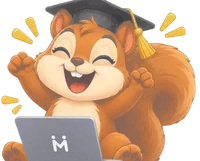
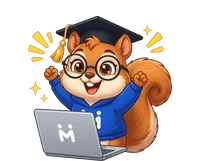
feat(ui): animaciones de Movi en Como funciona, ocultar precio en destacados y fix navbar

diff --git a/resources/js/Pages/Welcome.vue b/resources/js/Pages/Welcome.vue
@@ -259,7 +259,7 @@
     <section id="como-funciona" class="pt-10 pb-12 md:py-24 bg-gradient-to-b from-white via-white to-[#E5EEFB] md:bg-none md:bg-[#E5EEFB] reveal-group scroll-mt-16 sm:scroll-mt-20">
       <div class="max-w-7xl mx-auto px-4 sm:px-6 lg:px-8">
         <!-- Header Desktop (Hidden on mobile) -->
-        <div class="reveal-item hidden md:block text-center mb-16">
+        <div class="reveal-item hidden md:block text-center mb-36">
           <h2 class="text-4xl font-black text-brand-900 text-balance">¿Cómo funciona MOVA?</h2>
           <p class="text-slate-600 mt-3 max-w-xl mx-auto text-pretty">En tres pasos sencillos estás aprendiendo con tu profesor ideal</p>
         </div>
@@ -282,17 +282,16 @@
         <div class="hidden md:grid md:grid-cols-3 gap-8">
           <div v-for="(step, i) in steps" :key="i"
             class="reveal-item group relative bg-white rounded-2xl p-8 border border-gray-100 hover:border-brand-200 shadow-sm hover:shadow-xl hover:shadow-brand-900/5 transition-all duration-300 hover:-translate-y-2"
-            @mouseenter="step.title === 'Aprende en vivo' ? playSquirrel() : null"
-            @mouseleave="step.title === 'Aprende en vivo' ? stopSquirrel() : null">
+            @mouseenter="playSquirrel(i)"
+            @mouseleave="stopSquirrel(i)">
 
-            <!-- Animación de Ardilla Graduada -->
-            <div v-if="step.title === 'Aprende en vivo'"
-                 class="absolute bottom-full left-1/2 -translate-x-1/2 w-48 h-48 pointer-events-none z-10 overflow-hidden">
+            <!-- Animación de Ardilla Movi adaptada a cada paso -->
+            <div class="absolute bottom-full left-1/2 -translate-x-1/2 w-48 h-48 pointer-events-none z-10 overflow-hidden">
               <div class="w-full h-full transition-transform duration-500 ease-out flex items-end justify-center"
-                   :class="squirrelVisible ? 'translate-y-0' : 'translate-y-full'">
-                <!-- Movi celebra al pasar el cursor (secuencia animada WebP; con movimiento reducido se muestra la pose final). Se monta
-                     recién en el primer hover para no descargarla si nadie la ve. -->
-                <MoviMascot v-if="squirrelShown" pose="celebra" :animated="true" :size="176" />
+                   :class="squirrelVisible[i] ? 'translate-y-0' : 'translate-y-full'">
+                <!-- Movi aparece al pasar el cursor (secuencia animada WebP; con movimiento reducido se muestra la pose final). Se monta
+                     recién en el primer hover de cada tarjeta para no descargarla si nadie la ve. -->
+                <MoviMascot v-if="squirrelShown[i]" :pose="step.pose" :animated="true" :size="176" />
               </div>
             </div>
 
@@ -476,8 +475,7 @@
                     {{ s.name }}
                   </span>
                 </div>
-                <div class="flex items-center justify-between pt-4 border-t border-gray-50">
-                  <span class="font-black text-brand-700 text-lg">S/{{ parseFloat(t.hourly_rate).toFixed(0) }}<span class="text-sm font-normal text-slate-400">/h</span></span>
+                <div class="flex items-center justify-end pt-4 border-t border-gray-50">
                   <Link :href="route('teachers.show', t.id)"
                     class="px-4 py-2 bg-brand-600 text-white text-sm font-semibold rounded-lg hover:bg-brand-700 transition-colors group-hover:shadow-md group-hover:shadow-brand-600/20">
                     Ver perfil
@@ -601,21 +599,21 @@ const isChatOpen = ref(false)
 const showStats = computed(() => (props.stats?.completed ?? 0) >= 10 && (props.stats?.teachers ?? 0) >= 5)
 
 const steps = [
-  { icon: Search, title: 'Solicita tu clase', desc: 'Elige la materia y el nivel que necesitas. Nuestro sistema encuentra los mejores profesores disponibles para ti.' },
-  { icon: UserCheck, title: 'Un experto acepta', desc: 'Un profesor verificado revisará tu solicitud y propondrá un horario que se adapte a tu disponibilidad.' },
-  { icon: Video, title: 'Aprende en vivo', desc: 'Conéctate por videollamada y aprende de manera personalizada, con ejercicios y seguimiento en tiempo real.' },
+  { icon: Search, pose: 'solicita', title: 'Solicita tu clase', desc: 'Elige la materia y el nivel que necesitas. Nuestro sistema encuentra los mejores profesores disponibles para ti.' },
+  { icon: UserCheck, pose: 'experto', title: 'Un experto acepta', desc: 'Un profesor verificado revisará tu solicitud y propondrá un horario que se adapte a tu disponibilidad.' },
+  { icon: Video, pose: 'celebra', title: 'Aprende en vivo', desc: 'Conéctate por videollamada y aprende de manera personalizada, con ejercicios y seguimiento en tiempo real.' },
 ]
 
-const squirrelShown = ref(false)
-const squirrelVisible = ref(false)
+const squirrelShown = ref([false, false, false])
+const squirrelVisible = ref([false, false, false])
 
-function playSquirrel() {
-  squirrelShown.value = true
-  squirrelVisible.value = true
+function playSquirrel(index) {
+  squirrelShown.value[index] = true
+  squirrelVisible.value[index] = true
 }
 
-function stopSquirrel() {
-  squirrelVisible.value = false
+function stopSquirrel(index) {
+  squirrelVisible.value[index] = false
 }
 
 function levelColor(level) {

diff --git a/resources/js/Components/MoviMascot.vue b/resources/js/Components/MoviMascot.vue
@@ -7,14 +7,16 @@ import { computed } from 'vue'
  * - `lee`      → leyendo su libro (estado de espera / ayuda).
  * - `saluda`   → saludando con la burbuja (bienvenida, chat).
  * - `feliz`    → graduada contenta (éxito, estado vacío positivo).
- * - `celebra`  → graduada celebrando con la laptop (logros, hitos). Con `animated` reproduce la secuencia; con
+ * - `solicita` → buscando clase con lupa y lista de materias (paso 1 "Solicita tu clase"). Soporta `animated`.
+ * - `experto`  → profesor experto verificado con calendario confirmado (paso 2 "Un experto acepta"). Soporta `animated`.
+ * - `celebra`  → graduada celebrando con la laptop (logros, hitos, paso 3 "Aprende en vivo"). Con `animated` reproduce la secuencia; con
  *                prefers-reduced-motion reducido o sin `animated` muestra la pose final estática.
  *
  * Es decorativa por defecto (alt vacío): el texto cercano ya dice lo importante. Pasa `alt` solo si la imagen
  * aporta información que no está en el texto.
  */
 const props = defineProps({
-  pose: { type: String, default: 'saluda', validator: (v) => ['lee', 'saluda', 'feliz', 'celebra'].includes(v) },
+  pose: { type: String, default: 'saluda', validator: (v) => ['lee', 'saluda', 'feliz', 'solicita', 'experto', 'celebra'].includes(v) },
   size: { type: Number, default: 96 },
   animated: { type: Boolean, default: false },
   alt: { type: String, default: '' },
@@ -24,12 +26,14 @@ const ASSETS = {
   lee: { small: 'movi-lee-192', large: 'movi-lee-512', w: 512, h: 489 },
   saluda: { small: 'movi-saluda-192', large: 'movi-saluda-512', w: 512, h: 489 },
   feliz: { small: 'movi-feliz-420', large: 'movi-feliz-420', w: 420, h: 338 },
-  celebra: { small: 'movi-celebra-200', large: 'movi-celebra-420', w: 420, h: 338 },
+  solicita: { small: 'movi-solicita-200', large: 'movi-solicita-420', anim: 'movi-solicita-anim', w: 420, h: 338 },
+  experto: { small: 'movi-experto-200', large: 'movi-experto-420', anim: 'movi-experto-anim', w: 420, h: 338 },
+  celebra: { small: 'movi-celebra-200', large: 'movi-celebra-420', anim: 'movi-celebra-anim', w: 420, h: 338 },
 }
 
 const asset = computed(() => ASSETS[props.pose])
 const staticSrc = computed(() => `/images/mascot/${props.size > 200 || props.pose === 'feliz' ? asset.value.large : asset.value.small}.webp`)
-const animSrc = computed(() => (props.pose === 'celebra' && props.animated ? '/images/mascot/movi-celebra-anim.webp' : null))
+const animSrc = computed(() => (props.animated && asset.value?.anim ? `/images/mascot/${asset.value.anim}.webp` : null))
 const height = computed(() => Math.round((props.size * asset.value.h) / asset.value.w))
 </script>
 

diff --git a/resources/js/Components/LandingNavbar.vue b/resources/js/Components/LandingNavbar.vue
@@ -1,6 +1,6 @@
 <template>
-  <nav :class="['fixed top-0 inset-x-0 z-50 transition-all duration-300',
-    isSolid ? 'bg-white/95 backdrop-blur-md shadow-sm border-b border-gray-100' : 'bg-transparent']">
+  <nav :class="['fixed top-0 inset-x-0 z-50 border-b transition-[background-color,border-color,box-shadow] duration-300',
+    isSolid ? 'bg-white/95 backdrop-blur-md shadow-sm border-gray-100' : 'bg-transparent border-transparent shadow-none']">
     <div class="max-w-7xl mx-auto px-4 sm:px-6 lg:px-8">
       <div class="relative flex items-center justify-between h-16">
         <!-- Logo -->

diff --git a/docs/CHANGELOG_2026-10-21_UI_MOVI_DOCKER.md b/docs/CHANGELOG_2026-10-21_UI_MOVI_DOCKER.md
@@ -1,0 +1,100 @@
+> Estado: CURRENT · 2026-10-21
+
+# Registro de Cambios UI / Mascota Movi y Despliegue Local Docker (2026-10-21)
+
+**Fecha y hora:** 2026-10-21 (01:17 – 02:27 UTC-5)  
+**Rama base:** `master`  
+**Propósito de este documento:** Proveer contexto exacto, trazable y verificable para cualquier agente de IA o desarrollador que continúe el trabajo sobre este workspace.
+
+---
+
+## 1. Entorno Local Docker Configurado
+
+Se clonó el repositorio oficial `https://github.com/Abel-Castill0/MOVA.git` sobre la rama `master` y se levantó utilizando el `Dockerfile` multi-stage de producción (FrankenPHP + PHP 8.3 + Caddy + assets compilados con Vite):
+
+- **Red Docker:** `mova-net`
+- **Base de datos (`mova-mysql`):** Imagen `mysql:8.4`, puerto host `3307 -> 3306`, base de datos `mova`, migraciones completas ejecutadas (`php artisan migrate --force`) y datos iniciales sembrados (`DatabaseSeeder`: `RoleSeeder`, `SubjectSeeder`, profesores y padres de prueba).
+- **Aplicación Web (`mova-web`):** Imagen `mova:latest` construida desde `Dockerfile`, expuesta en `http://localhost:8080`.
+  - Endpoints de salud verificados: `/healthz` (`200 OK`) y `/readyz` (`200 {"status":"ready","checks":{"database":"ok","migrations":"ok","cache":"ok"}}`).
+
+---
+
+## 2. Resumen de Cambios Implementados en Código y Activos
+
+### 2.1. Ocultación de tarifa por hora en "Profesores destacados" (`Welcome.vue`)
+- **Archivo:** `resources/js/Pages/Welcome.vue` (líneas 479–485)
+- **Cambio:** En las tarjetas del carrusel de la sección **Profesores destacados** (`#profesores`), se eliminó el elemento `<span>` que mostraba el precio por hora (`S/{{ parseFloat(t.hourly_rate).toFixed(0) }}/h`).
+- **Alineación:** El contenedor inferior de la tarjeta cambió de `justify-between` a `justify-end` para mantener el botón **Ver perfil** alineado limpiamente a la derecha.
+
+### 2.2. Nuevas animaciones de la mascota Movi en "¿Cómo funciona MOVA?" (`MoviMascot.vue`, `Welcome.vue`, `public/images/mascot/*`)
+- **Objetivo:** Que las 3 tarjetas de pasos en desktop (`Solicita tu clase`, `Un experto acepta` y `Aprende en vivo`) muestren a la ardilla **Movi** asomándose con una animación WebP personalizada al hacer hover (`@mouseenter` / `@mouseleave`), con un estilo visual 100 % unificado (línea definida, ojos brillantes con lentes redondos, polera azul con logo MOVA).
+- **Activos creados/actualizados en `public/images/mascot/`:**
+  1. **Paso 1 — "Solicita tu clase" (`pose="solicita"`):** Movi con lentes y polera azul de MOVA sosteniendo una lupa y una lista/checklist de materias, con destellos amarillos animados.
+     - `public/images/mascot/movi-solicita-200.webp` (200×161 px, estático pequeño)
+     - `public/images/mascot/movi-solicita-420.webp` (420×338 px, estático grande)
+     - `public/images/mascot/movi-solicita-anim.webp` (360×290 px, 18 frames animados en bucle, fondo transparente)
+  2. **Paso 2 — "Un experto acepta" (`pose="experto"`):** Movi con birrete académico, lentes y polera azul de MOVA dando un pulgar arriba y mostrando un calendario con check verde de verificación.
+     - `public/images/mascot/movi-experto-200.webp` (200×161 px, estático pequeño)
+     - `public/images/mascot/movi-experto-420.webp` (420×338 px, estático grande)
+     - `public/images/mascot/movi-experto-anim.webp` (360×290 px, 18 frames animados en bucle, fondo transparente)
+  3. **Paso 3 — "Aprende en vivo" (`pose="celebra"`):** Rehecho al mismo estilo visual que los pasos 1 y 2 (Movi con birrete, lentes redondos, polera azul de MOVA y laptop plateada con el logo de MOVA celebrando con ambos brazos arriba).
+     - `public/images/mascot/movi-celebra-200.webp` (200×161 px, actualizado)
+     - `public/images/mascot/movi-celebra-420.webp` (420×338 px, actualizado)
+     - `public/images/mascot/movi-celebra-anim.webp` (360×290 px, 18 frames animados en bucle, actualizado y optimizado de 767 KB a 489 KB)
+- **Componente `resources/js/Components/MoviMascot.vue`:**
+  - Se amplió el validador de la prop `pose` para admitir `['lee', 'saluda', 'feliz', 'solicita', 'experto', 'celebra']`.
+  - Se registraron `solicita` y `experto` en el mapa `ASSETS` junto con su propiedad `anim`.
+  - `animSrc` ahora resuelve dinámicamente `/images/mascot/${asset.value.anim}.webp` para cualquier pose que defina `anim` cuando `:animated="true"` está activo (manteniendo el `<source media="(prefers-reduced-motion: reduce)">` hacia la imagen estática por accesibilidad).
+- **Componente `resources/js/Pages/Welcome.vue`:**
+  - Cada elemento del arreglo `steps` incluye ahora su propiedad `pose` (`'solicita'`, `'experto'`, `'celebra'`).
+  - Los estados reactivos `squirrelShown` y `squirrelVisible` pasaron de booleanos simples a arreglos por índice (`ref([false, false, false])`), junto con `playSquirrel(index)` y `stopSquirrel(index)`, de modo que cada tarjeta monta de forma diferida (lazy en el primer hover) y anima su propia ardilla independientemente.
+
+### 2.3. Corrección de solapamiento de la ardilla central sobre el título (`Welcome.vue`)
+- **Archivo:** `resources/js/Pages/Welcome.vue` (línea 262)
+- **Problema:** Al hacer hover sobre la tarjeta central (**"Un experto acepta"**), la ardilla emergente (`h-48` / ~140 px visibles sobre el borde superior de la tarjeta) se superponía al título `¿Cómo funciona MOVA?` y su subtítulo porque el encabezado tenía solo `mb-16` (`64px`).
+- **Solución:** Se incrementó el margen inferior del bloque de encabezado en desktop de `mb-16` a `mb-36` (`144px`), dejando espacio suficiente para que la animación de la tarjeta central se despliegue completa sin tocar el texto.
+
+### 2.4. Corrección del destello/línea blanca en `LandingNavbar` al hacer scroll hacia arriba (`LandingNavbar.vue`)
+- **Archivo:** `resources/js/Components/LandingNavbar.vue` (líneas 2–3)
+- **Problema:** El `<nav>` tenía `transition-all duration-300` y solo incluía las clases `border-b border-gray-100` cuando `isSolid` era `true` (`window.scrollY > 20`). Al subir al tope de la página (`isSolid -> false`), se quitaban ambas clases de golpe: `border-bottom-width` tardaba `300ms` en interpolarse de `1px` a `0px`, y durante esos `300ms` el borde tomaba el color por defecto (`currentColor` / claro), produciendo una línea blanca visible sobre el fondo azul del hero.
+- **Solución:** Se mantuvo `border-b` fijo en la clase base del `<nav>`, alternando únicamente entre `border-gray-100` (estado sólido) y `border-transparent shadow-none` (estado transparente sobre el hero), y se restringió la propiedad de transición a `transition-[background-color,border-color,box-shadow] duration-300`.
+
+---
+
+## 3. Inventario Exacto de Archivos Modificados y Nuevos
+
+| Estado Git | Archivo | Descripción |
+|---|---|---|
+| `M` | `resources/js/Pages/Welcome.vue` | Sin precio en profesores destacados; soporte de Movi por tarjeta en los 3 pasos; `mb-36` en header de "¿Cómo funciona MOVA?" |
+| `M` | `resources/js/Components/MoviMascot.vue` | Soporte de poses `solicita` y `experto` con versión animada WebP y fallback estático |
+| `M` | `resources/js/Components/LandingNavbar.vue` | Fix de transición de `border-b` (`border-transparent`) para eliminar línea blanca al subir el scroll |
+| `M` | `public/images/mascot/movi-celebra-200.webp` | Pose estática pequeña rediseñada al nuevo estilo unificado |
+| `M` | `public/images/mascot/movi-celebra-420.webp` | Pose estática grande rediseñada al nuevo estilo unificado |
+| `M` | `public/images/mascot/movi-celebra-anim.webp` | Animación WebP de "Aprende en vivo" rediseñada al nuevo estilo unificado |
+| `A` (`??`) | `public/images/mascot/movi-solicita-200.webp` | Pose estática pequeña para paso 1 ("Solicita tu clase") |
+| `A` (`??`) | `public/images/mascot/movi-solicita-420.webp` | Pose estática grande para paso 1 ("Solicita tu clase") |
+| `A` (`??`) | `public/images/mascot/movi-solicita-anim.webp` | Animación WebP para paso 1 ("Solicita tu clase") |
+| `A` (`??`) | `public/images/mascot/movi-experto-200.webp` | Pose estática pequeña para paso 2 ("Un experto acepta") |
+| `A` (`??`) | `public/images/mascot/movi-experto-420.webp` | Pose estática grande para paso 2 ("Un experto acepta") |
+| `A` (`??`) | `public/images/mascot/movi-experto-anim.webp` | Animación WebP para paso 2 ("Un experto acepta") |
+| `M` | `docs/README.md` | Enlace a este documento de registro de cambios |
+| `A` (`??`) | `docs/CHANGELOG_2026-10-21_UI_MOVI_DOCKER.md` | Este documento de referencia para agentes e historial |
+
+---
+
+## 4. Cómo Reconstruir y Actualizar el Contenedor Local
+
+Si otro agente realiza cambios adicionales en `resources/js/` o `public/`, puede reconstruir y recrear el contenedor web ejecutando en PowerShell:
+
+```powershell
+docker build -t mova:latest .
+$appKey = (docker inspect mova-web --format '{{range .Config.Env}}{{println .}}{{end}}' | Select-String -Pattern "^APP_KEY=").ToString().Trim()
+docker stop mova-web
+docker rm mova-web
+docker run -d --name mova-web --network mova-net -p 8080:8080 `
+  -e APP_ENV=local -e APP_DEBUG=true -e $appKey -e APP_URL=http://localhost:8080 `
+  -e DB_CONNECTION=mysql -e DB_HOST=mova-mysql -e DB_PORT=3306 -e DB_DATABASE=mova `
+  -e DB_USERNAME=root -e DB_PASSWORD=mova_local_root `
+  -e MAIL_MAILER=array -e CACHE_DRIVER=file -e SESSION_DRIVER=file -e QUEUE_CONNECTION=database `
+  mova:latest
+```

diff --git a/docs/README.md b/docs/README.md
@@ -20,6 +20,7 @@
 | [`PROMPTS_CLAUDE_CODE.md`](PROMPTS_CLAUDE_CODE.md) | Guía y plantillas de indicaciones para Claude Code |
 | [`BACKUP_RESTORE_PLAYBOOK.md`](BACKUP_RESTORE_PLAYBOOK.md) · [`payments-architecture.md`](payments-architecture.md) · [`whatsapp-architecture.md`](whatsapp-architecture.md) | Referencias técnicas (verificar contra el código) |
 | [`../DESIGN.md`](../DESIGN.md) · [`../PRODUCT.md`](../PRODUCT.md) · [`WEB_INTERFACE_GUIDELINES.md`](WEB_INTERFACE_GUIDELINES.md) | Diseño y producto |
+| [`CHANGELOG_2026-10-21_UI_MOVI_DOCKER.md`](CHANGELOG_2026-10-21_UI_MOVI_DOCKER.md) | Registro detallado de cambios UI (profesores destacados, animaciones Movi, navbar) y despliegue Docker local (2026-10-21) |
 
 ## Referencia útil, parcialmente superada
 
